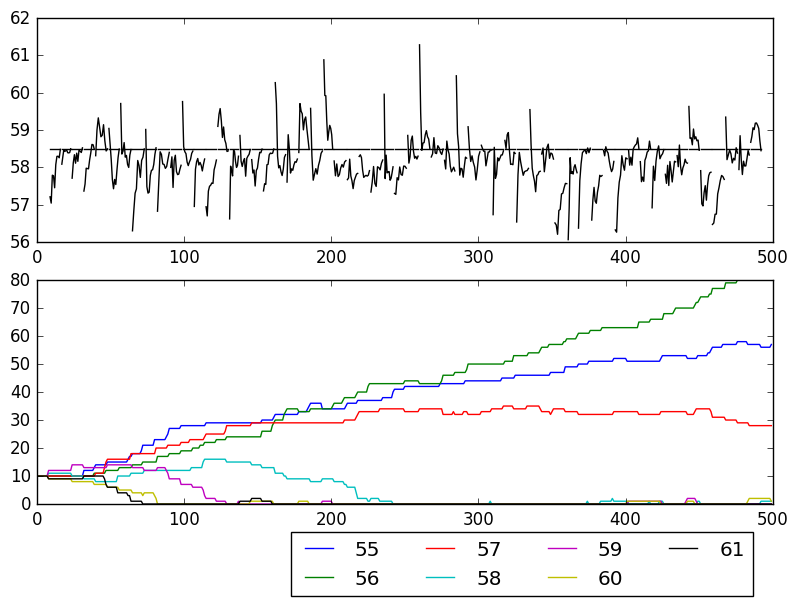
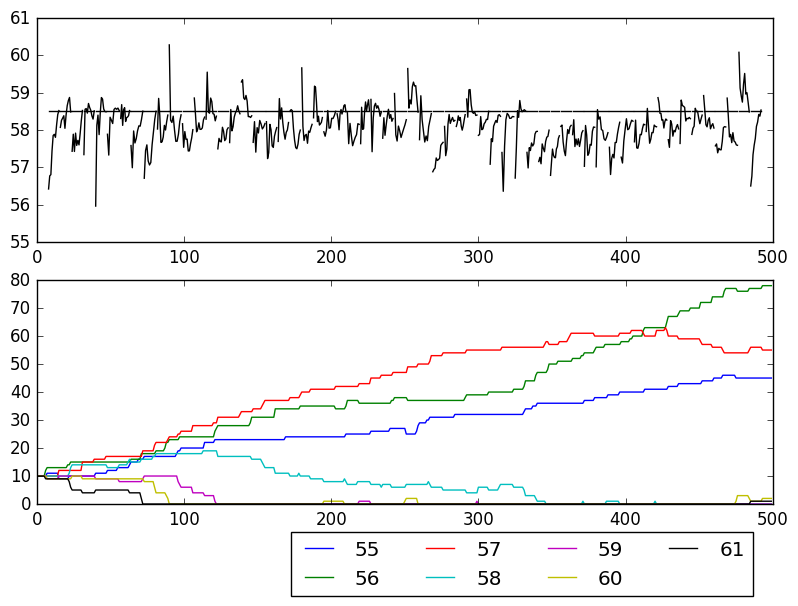
update - start stockpiles class

diff --git a/ea/sim_eval.py b/ea/sim_eval.py
@@ -10,7 +10,43 @@ import math
 import matplotlib.pyplot as plt
 
 
-class stockpile_sim(object):     
+
+class Stockyard(object):
+    stocks = None # the actual blocks - a list of stacks - one for each stockpile
+    stocks_limits = None # a list of the upper and lower limits for corresponding stockpiles in stocks
+    
+    
+    def __init__(self,low, high, num_piles):
+        
+        # list of empty stacks: empty stockpiles
+        self.stocks = [[] for i in range(self.npiles)] #a = [[0] * number_cols for i in range(number_rows)]
+        
+        # thresholds to accept material
+        self.stocks_limits = [[] for i in range(num_piles)]        
+        step = float((high - low)/num_piles)
+        s_low = self.low
+        s_high = s_low + step
+        for i in range(num_piles):
+            self.stocks_limits[i] = (s_low,s_high)
+            s_low += step
+            s_high += step
+        
+    def add_block(self, block):
+        # get stockpile index
+        pile_index = -1
+        for i in range(self.npiles):
+            if ( block >= self.stocks_limits[i][0] and block < self.stocks_limits[i][1] ) :
+                pile_index = i
+                break
+
+        if pile_index is -1: 
+            raise Exception (("can't find stockpile for grade %s"), block) 
+        else:
+            self.stocks[pile_index].append(block)
+            
+    
+
+class Stockpile_sim(object):     
     
     # simulation variables
     
@@ -21,7 +57,10 @@ class stockpile_sim(object):
     high = 0  # highest grade threshold
     piles = None # rehandle stockpiles
     npiles = 0 # number of rehandle stockpiles
-    piles_n = None # blocks on stockpiles at timestep n    
+    piles_n = None # number of blocks on stockpiles at timestep n 
+
+    stockyard = None # stockyard object 
+    
     digggers = None # block sequence for each digging unit  
     crusher_rate = 0 # blocks per time unit for crusher
 
@@ -31,55 +70,57 @@ class stockpile_sim(object):
     build_ind = None 
     nbuild_bks = 0 # number of blocks in all builds
     
-    upper = None
-    lower = None
+    upper = None # absolute lowest grade of Fe for ore - cutoff grade - lower is treated as waste
+    lower = None # the highest concentration of iron that is possible in the data 
     
     build_start = None
     
-    def __init__(self, time_periods=100, starting_inventory_n=10, grade_target=58.0):
+    def __init__(self, time_periods=100, starting_inventory_n=0, grade_target=58.0):
         """
         Destination problem simulation
         """               
         self.ndiggers = 5       
         self.nblocks = 20       
         self.ntime = time_periods   
-         
+        
         self.low = 55      
-        self.high = 62
-        
-        # initially use one stockpile for each integer grade in the range
-        self.piles = np.array(range (self.low, self.high))
-        self.npiles = len (self.piles)
-        # variable to store stockpile contents info at each timestep in the sim
-        self.piles_n = np.zeros((self.npiles,time_periods))
-        # set starting stockpile inventory
-        self.piles_n[0:self.npiles,0] = starting_inventory_n
-        
+        self.high = 62  
+
+        self.starting_inventory_n = starting_inventory_n
+        self.target = grade_target
         # digger model                
         # mining sequence per dig unit
-        self.diggers = self._get_digger_block_seq(time_periods)
+        self.diggers = self._get_digger_block_seq(self.ntime)
         
         # crusher model
         # blocks to crush per time period (one crusher)
         self.crusher_rate = 2 
-   
-        # build model
-        # product stockpile grade target %Fe
-        self.target = grade_target
-        
-        self.build_av = np.zeros((1,time_periods))
-        self.build_cnt = np.zeros((1,time_periods))
-        
-        self.build_bks = np.zeros((1,time_periods*self.ndiggers))  
-        self.build_ind = np.zeros((1,time_periods*self.ndiggers)) # % 1 if from build, 0 otherwise
-        
-        
-        self.upper = np.zeros((1,time_periods))
-        self.lower = np.zeros((1,time_periods)) 
-        
-        self.build_start = np.zeros((1,1)) # time step when builds were started
 
-        pass
+    def reset(self):   
+        """
+        reset the simulation variables 
+        """
+        # stockpile model
+        # initially use one stockpile for each integer grade in the range
+        self.piles = np.array(range (self.low, self.high))
+        self.npiles = len (self.piles)
+
+        
+        self.stockyard = Stockyard(self.low, self.high, self.npiles)
+
+           
+        # state variables
+        self.piles_n = np.zeros((self.npiles,self.ntime)) # variable to store number of blocks in each stockpile at each timestep in the sim
+        self.piles_n[0:self.npiles,0] = self.starting_inventory_n # set starting stockpile inventory       
+        self.build_av = np.zeros((1,self.ntime))
+        self.build_cnt = np.zeros((1,self.ntime))        
+        self.build_bks = np.zeros((1,self.ntime*self.ndiggers))  
+        self.build_ind = np.zeros((1,self.ntime*self.ndiggers)) # % 1 if from build, 0 otherwise
+        self.upper = np.zeros((1,self.ntime))
+        self.lower = np.zeros((1,self.ntime))         
+        self.build_start = np.zeros((1,1)) # time step when builds were started
+        self.nbuild_bks=0 # blocks in builds
+        
 
     def _get_digger_block_seq(self,ntime):
 
@@ -93,10 +134,9 @@ class stockpile_sim(object):
     
 
     def run(self):
+        self.reset()
         tt=0
         build_n = 0 # blocks in a current build
-        
-        
         
         while (tt < self.ntime):
             print "time step: "+str (tt)
@@ -152,10 +192,13 @@ class stockpile_sim(object):
                         
                         self.build_cnt[0,tt] = self.build_cnt[0,tt] + 1
         
-                    else: # send to stockpile - ROM pad                
+                    else: # send to stockpile - ROM pad               
+
                         pile_index, = np.where(self.piles == np.floor(block))
                         self.piles_n [pile_index[0],tt] = self.piles_n [pile_index[0],tt] + 1
                         print "Send to stockpile: "+str(pile_index[0])+"\t Quality: "+str(self.piles[pile_index[0]] )
+                        self.stocks[pile_index].append(block)
+                        
                 else:
                     print "Send to waste dump"
                 
@@ -172,16 +215,15 @@ class stockpile_sim(object):
                     grade = np.min(np.abs(self.piles[temp_i] - new_grade))
                     igrade = np.argmin(np.abs(self.piles[temp_i] - new_grade))
                 
-                    grade = self.piles[temp_i[igrade]]
+                    grade = self.stocks[temp_i[igrade]].pop() #self.piles[temp_i[igrade]]
+                    #take the block from the stock pile     
+                    self.piles_n[temp_i[igrade],tt] = self.piles_n[temp_i[igrade],tt] - 1
                     
                     pbuild = self.build_av[0,tt]
                     self.cbuild = ((build_n)*pbuild + grade)/(build_n+1)
                     
                     #if (abs(cbuild-target) < abs(pbuild-target))
-        
-                    #take the block from the stock pile     
-                    self.piles_n[temp_i[igrade],tt] = self.piles_n[temp_i[igrade],tt] - 1
-                               
+                                                           
                     # check if we need to start a new build
                     if (build_n is self.nblocks):
                         build_n = 0
@@ -200,9 +242,10 @@ class stockpile_sim(object):
                     self.build_bks[0,self.nbuild_bks] = grade
                         
                     self.build_cnt[0,tt] = self.build_cnt[0,tt] + 1
-                        
+                    
             tt = tt + 1
         self.build_start = np.append(self.build_start, self.ntime)
+        print self.build_quality_deviation()
         
 
     def build_quality_deviation(self):
@@ -211,8 +254,9 @@ class stockpile_sim(object):
 #        s.run()
 #        serror = 0
 #        for ii in range(1,np.shape(s.build_start)[0]):
-#            serror += math.pow((s.build_av[0, int(s.build_start[ii])-1 ] - s.target ), 2) #math.pow(s.build_av[0, int(s.build_start[1])-1 ] - s.target,2)      
-#            print str( s.build_av[0, int(s.build_start[ii])-1 ] ) + "  "+ str( serror)
+#            error = math.pow((s.build_av[0, int(s.build_start[ii])-1 ] - s.target ), 2)
+#            serror += error #math.pow(s.build_av[0, int(s.build_start[1])-1 ] - s.target,2)      
+#            print str( s.build_av[0, int(s.build_start[ii])-1 ] ) + "\t"+ str( error) +"\t" +str(serror)
 #  
         serror = 0
         for ii in range(1,np.shape(self.build_start)[0]):
